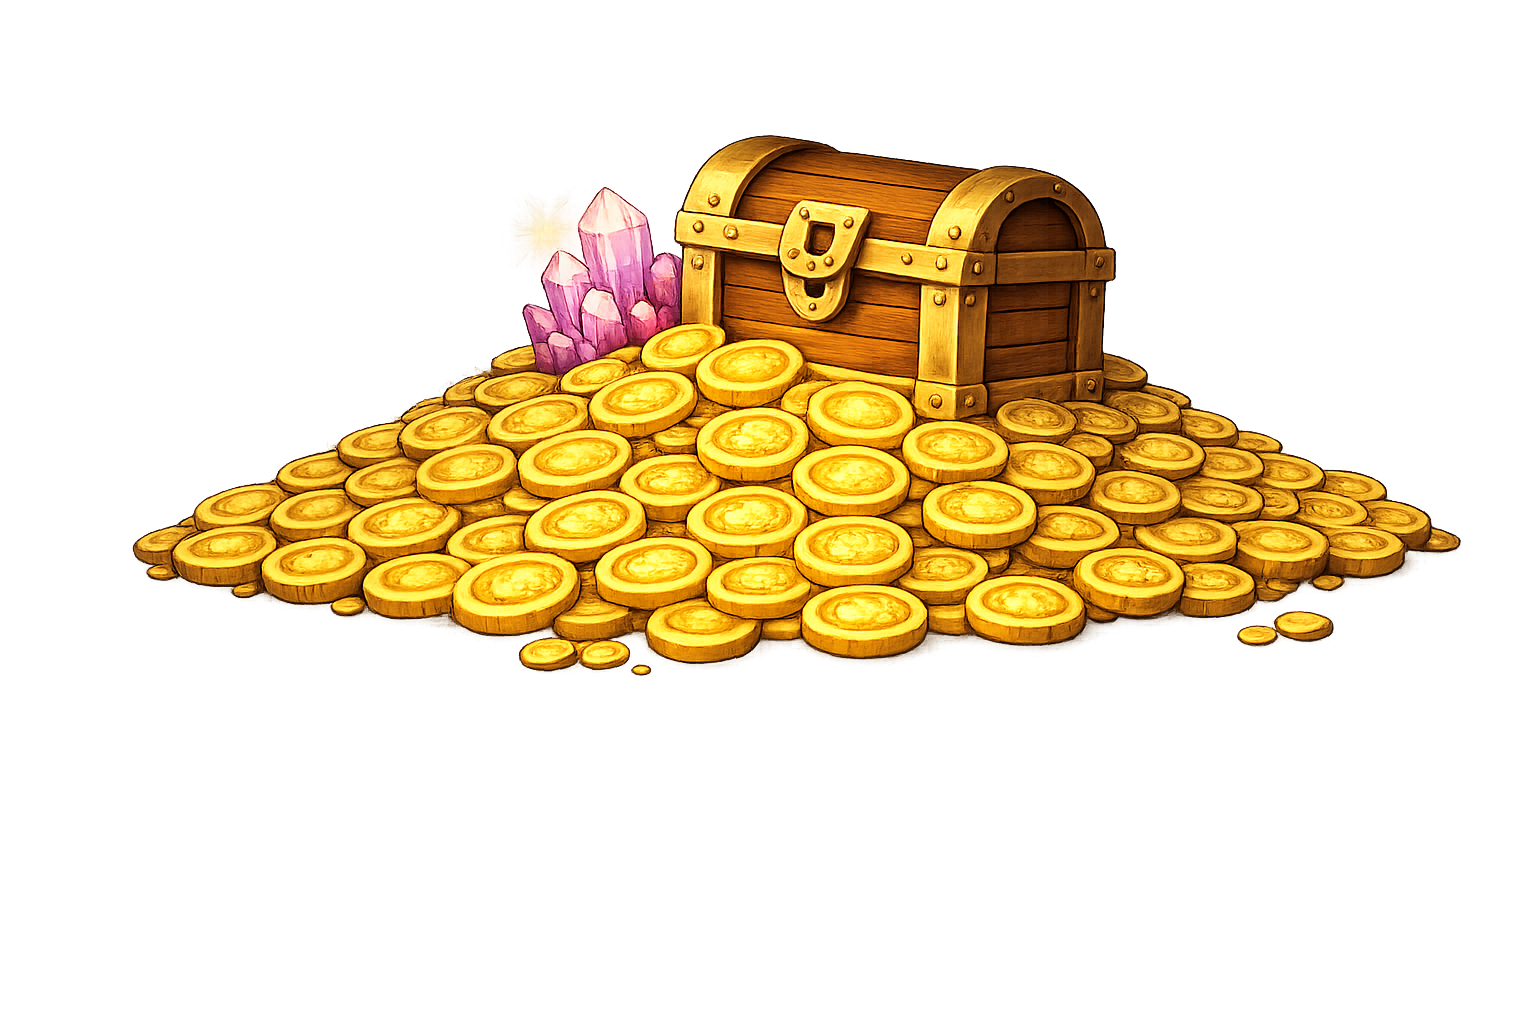
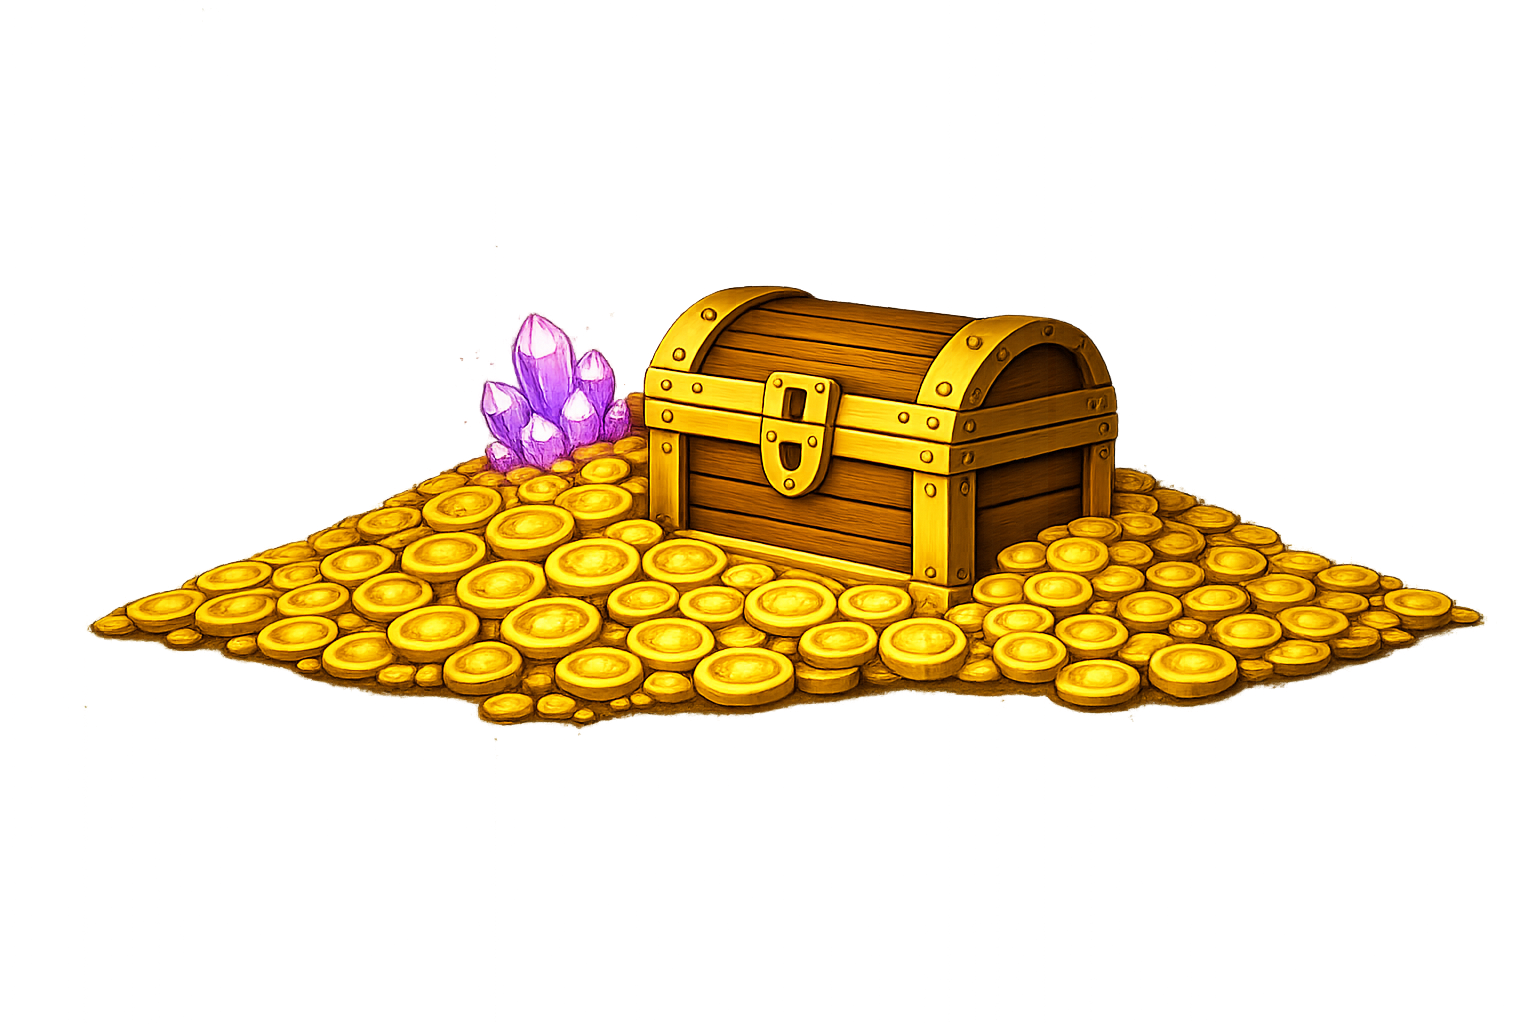
switch off bouncing chest bottom and switch off centre top opening animation

Changed region(s): [[0.0625, 0.125, 0.9688, 0.7188]]

diff --git a/src/components/MapProp.jsx b/src/components/MapProp.jsx
@@ -211,9 +211,17 @@ const propStylePresets = {
 
 export default function MapProp({ prop }) {
   const imageSrc = propImageMap[prop.type];
-  if (!imageSrc) return null;
-
   const preset = propStylePresets[prop.type] || {};
+
+  const swapClosedSrc = prop.swapImages?.closed
+    ? propImageMap[prop.swapImages.closed]
+    : null;
+  const swapOpenSrc = prop.swapImages?.open
+    ? propImageMap[prop.swapImages.open]
+    : null;
+
+  if (prop.swapImages && (!swapClosedSrc || !swapOpenSrc)) return null;
+  if (!prop.swapImages && !imageSrc) return null;
 
   return (
     <div
@@ -252,12 +260,35 @@ export default function MapProp({ prop }) {
       {prop.shine ? <span className="prop-shine-rays" /> : null}
       {prop.aura ? <span className="prop-aura" /> : null}
 
-      <img
-        src={imageSrc}
-        alt=""
-        className={`map-prop ${prop.animate || ""} ${prop.type === "sunImage" ? "map-prop-sun" : ""}`}
-        draggable="false"
-      />
+      {prop.swapImages ? (
+        <div className="map-prop-swap-shell">
+          <img
+            src={swapClosedSrc}
+            alt=""
+            className="map-prop map-prop-swap-sizer"
+            draggable="false"
+          />
+          <img
+            src={swapClosedSrc}
+            alt=""
+            className={`map-prop map-prop-swap-layer ${prop.animate || ""} ${prop.isOpen ? "is-hidden" : "is-visible"}`}
+            draggable="false"
+          />
+          <img
+            src={swapOpenSrc}
+            alt=""
+            className={`map-prop map-prop-swap-layer ${prop.animate || ""} ${prop.isOpen ? "is-visible" : "is-hidden"}`}
+            draggable="false"
+          />
+        </div>
+      ) : (
+        <img
+          src={imageSrc}
+          alt=""
+          className={`map-prop ${prop.animate || ""} ${prop.type === "sunImage" ? "map-prop-sun" : ""}`}
+          draggable="false"
+        />
+      )}
     </div>
   );
 }

diff --git a/src/components/VipMapPage.jsx b/src/components/VipMapPage.jsx
@@ -123,20 +123,26 @@ export default function VipMapPage() {
             if (prop.id === "bottom-treasure-custom") {
                 return {
                     ...prop,
-                    type: characterNodeId > 3
-                        ? "bottomTreasureCustom"
-                        : "bottomTreasureCustomClosed",
+                    type: "bottomTreasureCustomClosed",
+                    swapImages: {
+                        closed: "bottomTreasureCustomClosed",
+                        open: "bottomTreasureCustom",
+                    },
+                    isOpen: characterNodeId > 3,
                 };
             }
 
-            if (prop.id === "centre-top-heap-custom") {
-                return {
-                    ...prop,
-                    type: characterNodeId > 5
-                        ? "coinHeapCentreTopOpen"
-                        : "coinHeapCentreTop",
-                };
-            }
+            // if (prop.id === "centre-top-heap-custom") {
+            //     return {
+            //         ...prop,
+            //         type: "coinHeapCentreTop",
+            //         swapImages: {
+            //             closed: "coinHeapCentreTop",
+            //             open: "coinHeapCentreTopOpen",
+            //         },
+            //         isOpen: characterNodeId > 5,
+            //     };
+            // }
 
             return prop;
         });

diff --git a/src/styles.css b/src/styles.css
@@ -714,6 +714,37 @@ button {
     contrast(var(--prop-contrast, 0.98));
 }
 
+.map-prop-swap-shell {
+  position: relative;
+  width: 100%;
+}
+
+.map-prop-swap-sizer {
+  opacity: 0;
+}
+
+.map-prop-swap-layer {
+  position: absolute;
+  inset: 0;
+  width: 100%;
+  height: 100%;
+  object-fit: contain;
+  transition:
+    opacity 280ms ease,
+    transform 280ms ease,
+    filter 280ms ease;
+}
+
+.map-prop-swap-layer.is-visible {
+  opacity: var(--prop-opacity, 1);
+  transform: rotate(var(--rot, 0deg)) scale(var(--prop-scale, 1));
+}
+
+.map-prop-swap-layer.is-hidden {
+  opacity: 0 !important;
+  transform: rotate(var(--rot, 0deg)) scale(calc(var(--prop-scale, 1) * 0.985));
+}
+
 /* Subtle chest / character-like idle float */
 .map-prop.floatSlow {
   animation: propFloatSlow 2.8s ease-in-out infinite;

diff --git a/src/data/land1.js b/src/data/land1.js
@@ -63,7 +63,6 @@ export const land1Data = {
       aura: true,
     },
 
-
     // CODE BLOCK FOR CENTRAL CHEST BY THE FOUNTAIN SIDE
 
     // {
@@ -94,7 +93,6 @@ export const land1Data = {
       width: 180,
       rotate: -2,
       z: 3,
-      animate: "floatSlow",
       delay: "0.1s",
       shine: true,
       aura: true,
